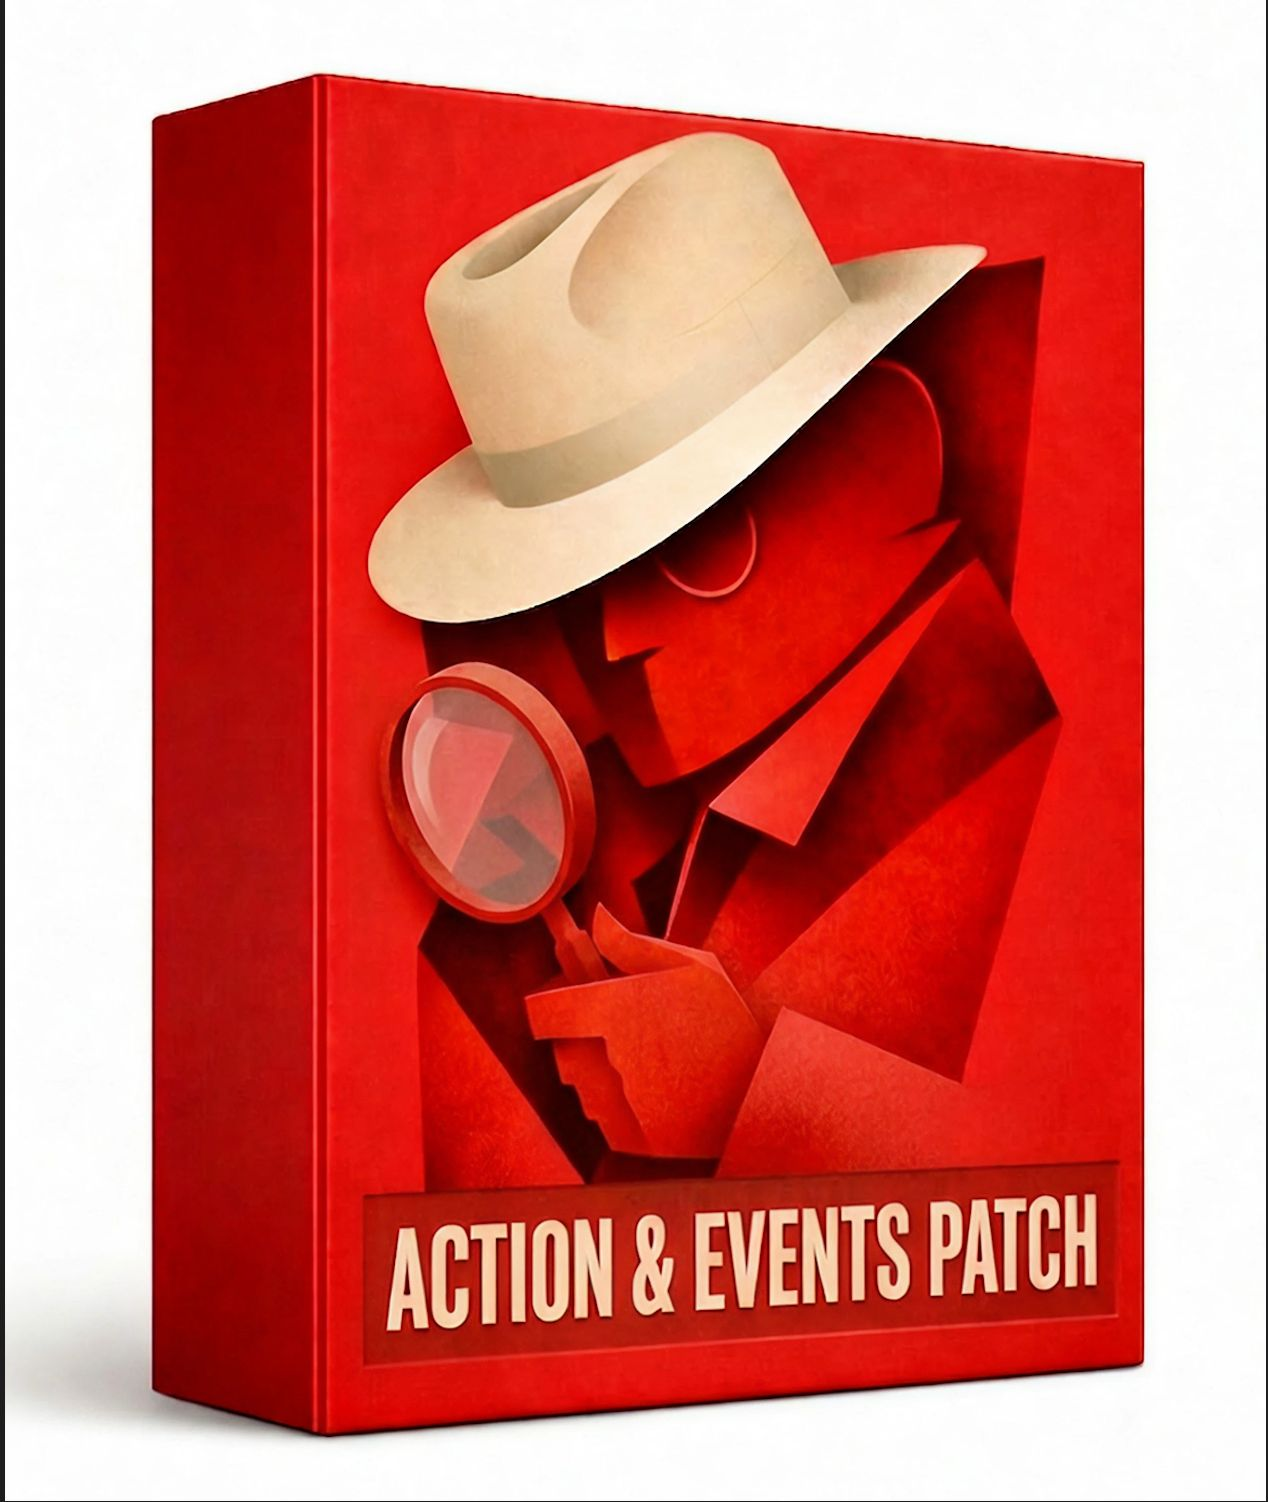
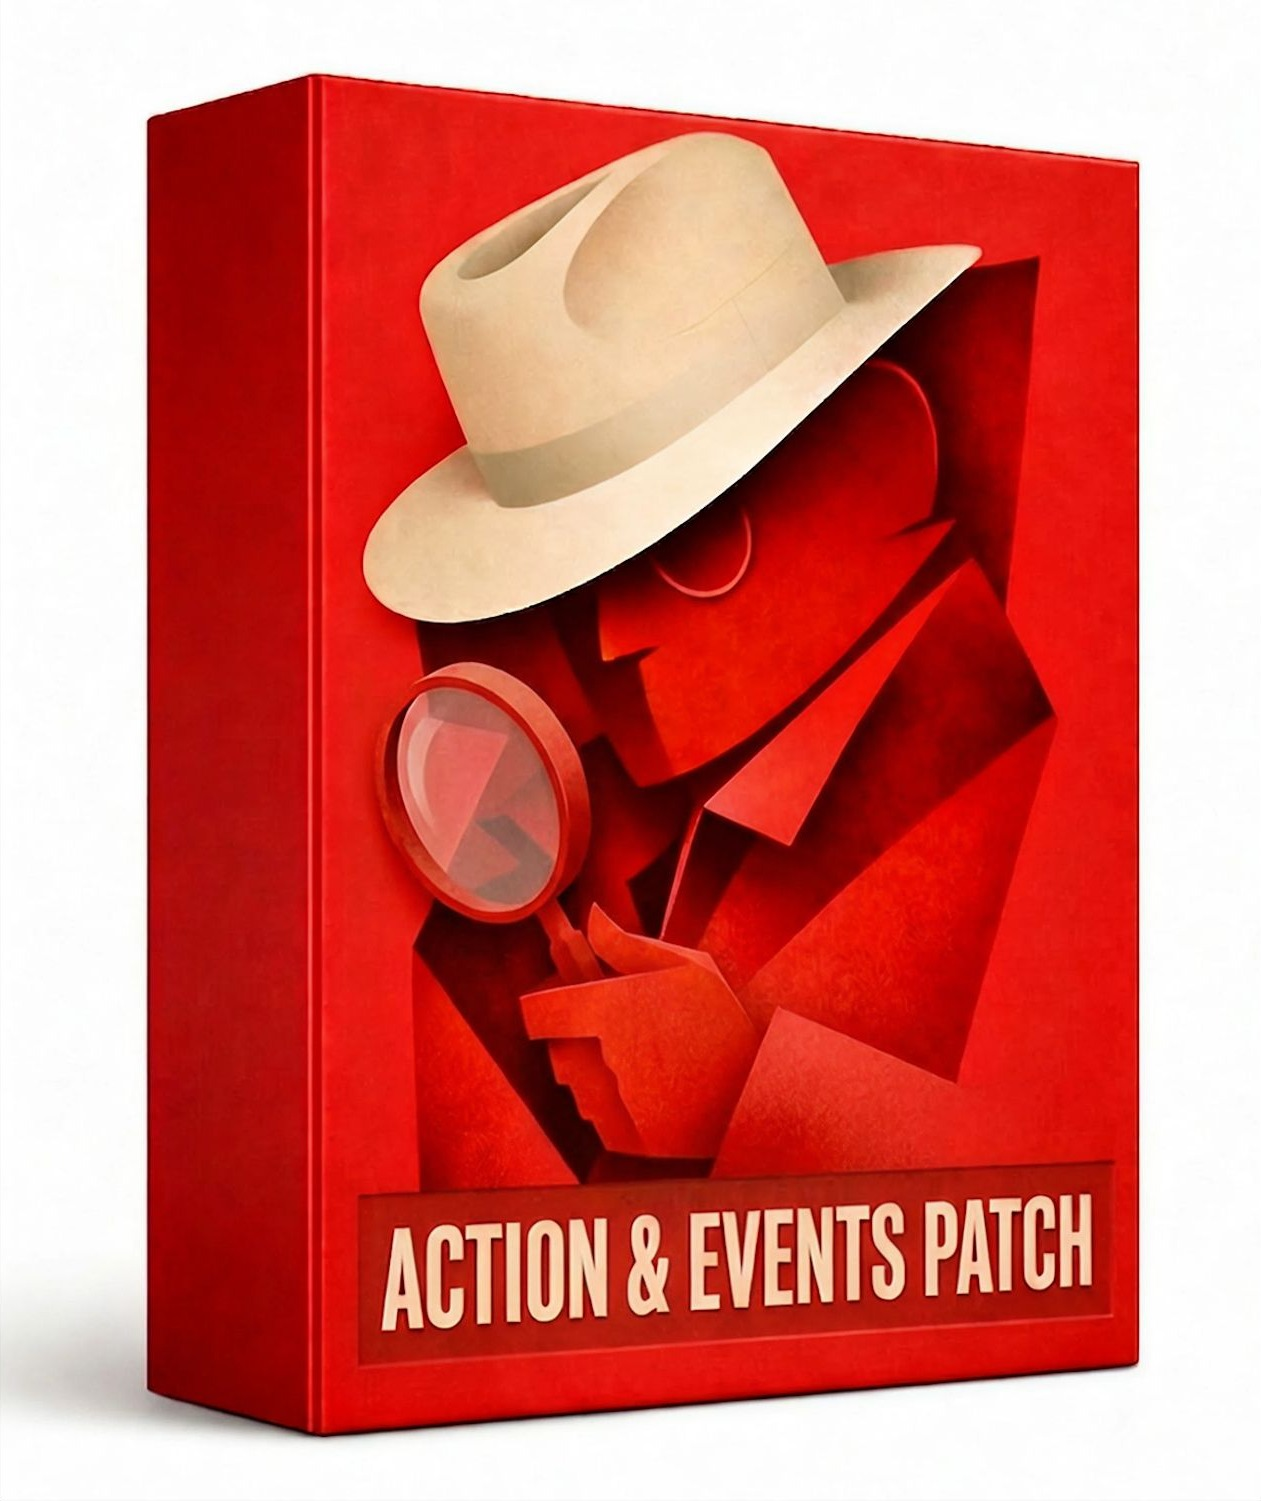
Normalize EdMon image sizing

diff --git a/js/script.js b/js/script.js
@@ -255,8 +255,12 @@ This simple ad for the National Military Museum lasts as long as it takes an F-1
 
 <div>
     <div style="display:grid; grid-template-columns:repeat(2, minmax(0, 1fr)); gap:18px; align-items:start; margin-bottom:18px;">
-        <img src="images/edmon/sapmi-language-pack.jpg" alt="EdMon Sapmi Language Pack" style="display:block; width:100%; height:auto;">
-        <img src="images/edmon/action-events-patch.jpg" alt="EdMon Action & Events Patch" style="display:block; width:100%; height:auto;">
+        <div style="aspect-ratio:1339 / 1600; overflow:hidden; background:#fff;">
+            <img src="images/edmon/sapmi-language-pack.jpg" alt="EdMon Sapmi Language Pack" style="display:block; width:100%; height:100%; object-fit:cover;">
+        </div>
+        <div style="aspect-ratio:1339 / 1600; overflow:hidden; background:#fff;">
+            <img src="images/edmon/action-events-patch.jpg" alt="EdMon Action & Events Patch" style="display:block; width:100%; height:100%; object-fit:cover;">
+        </div>
     </div>
     edmon placeholder. ai-assisted postproduction, logging, search, rough cuts, the whole machine. proper case, materials, and a cleaner write-up are coming.
 </div>